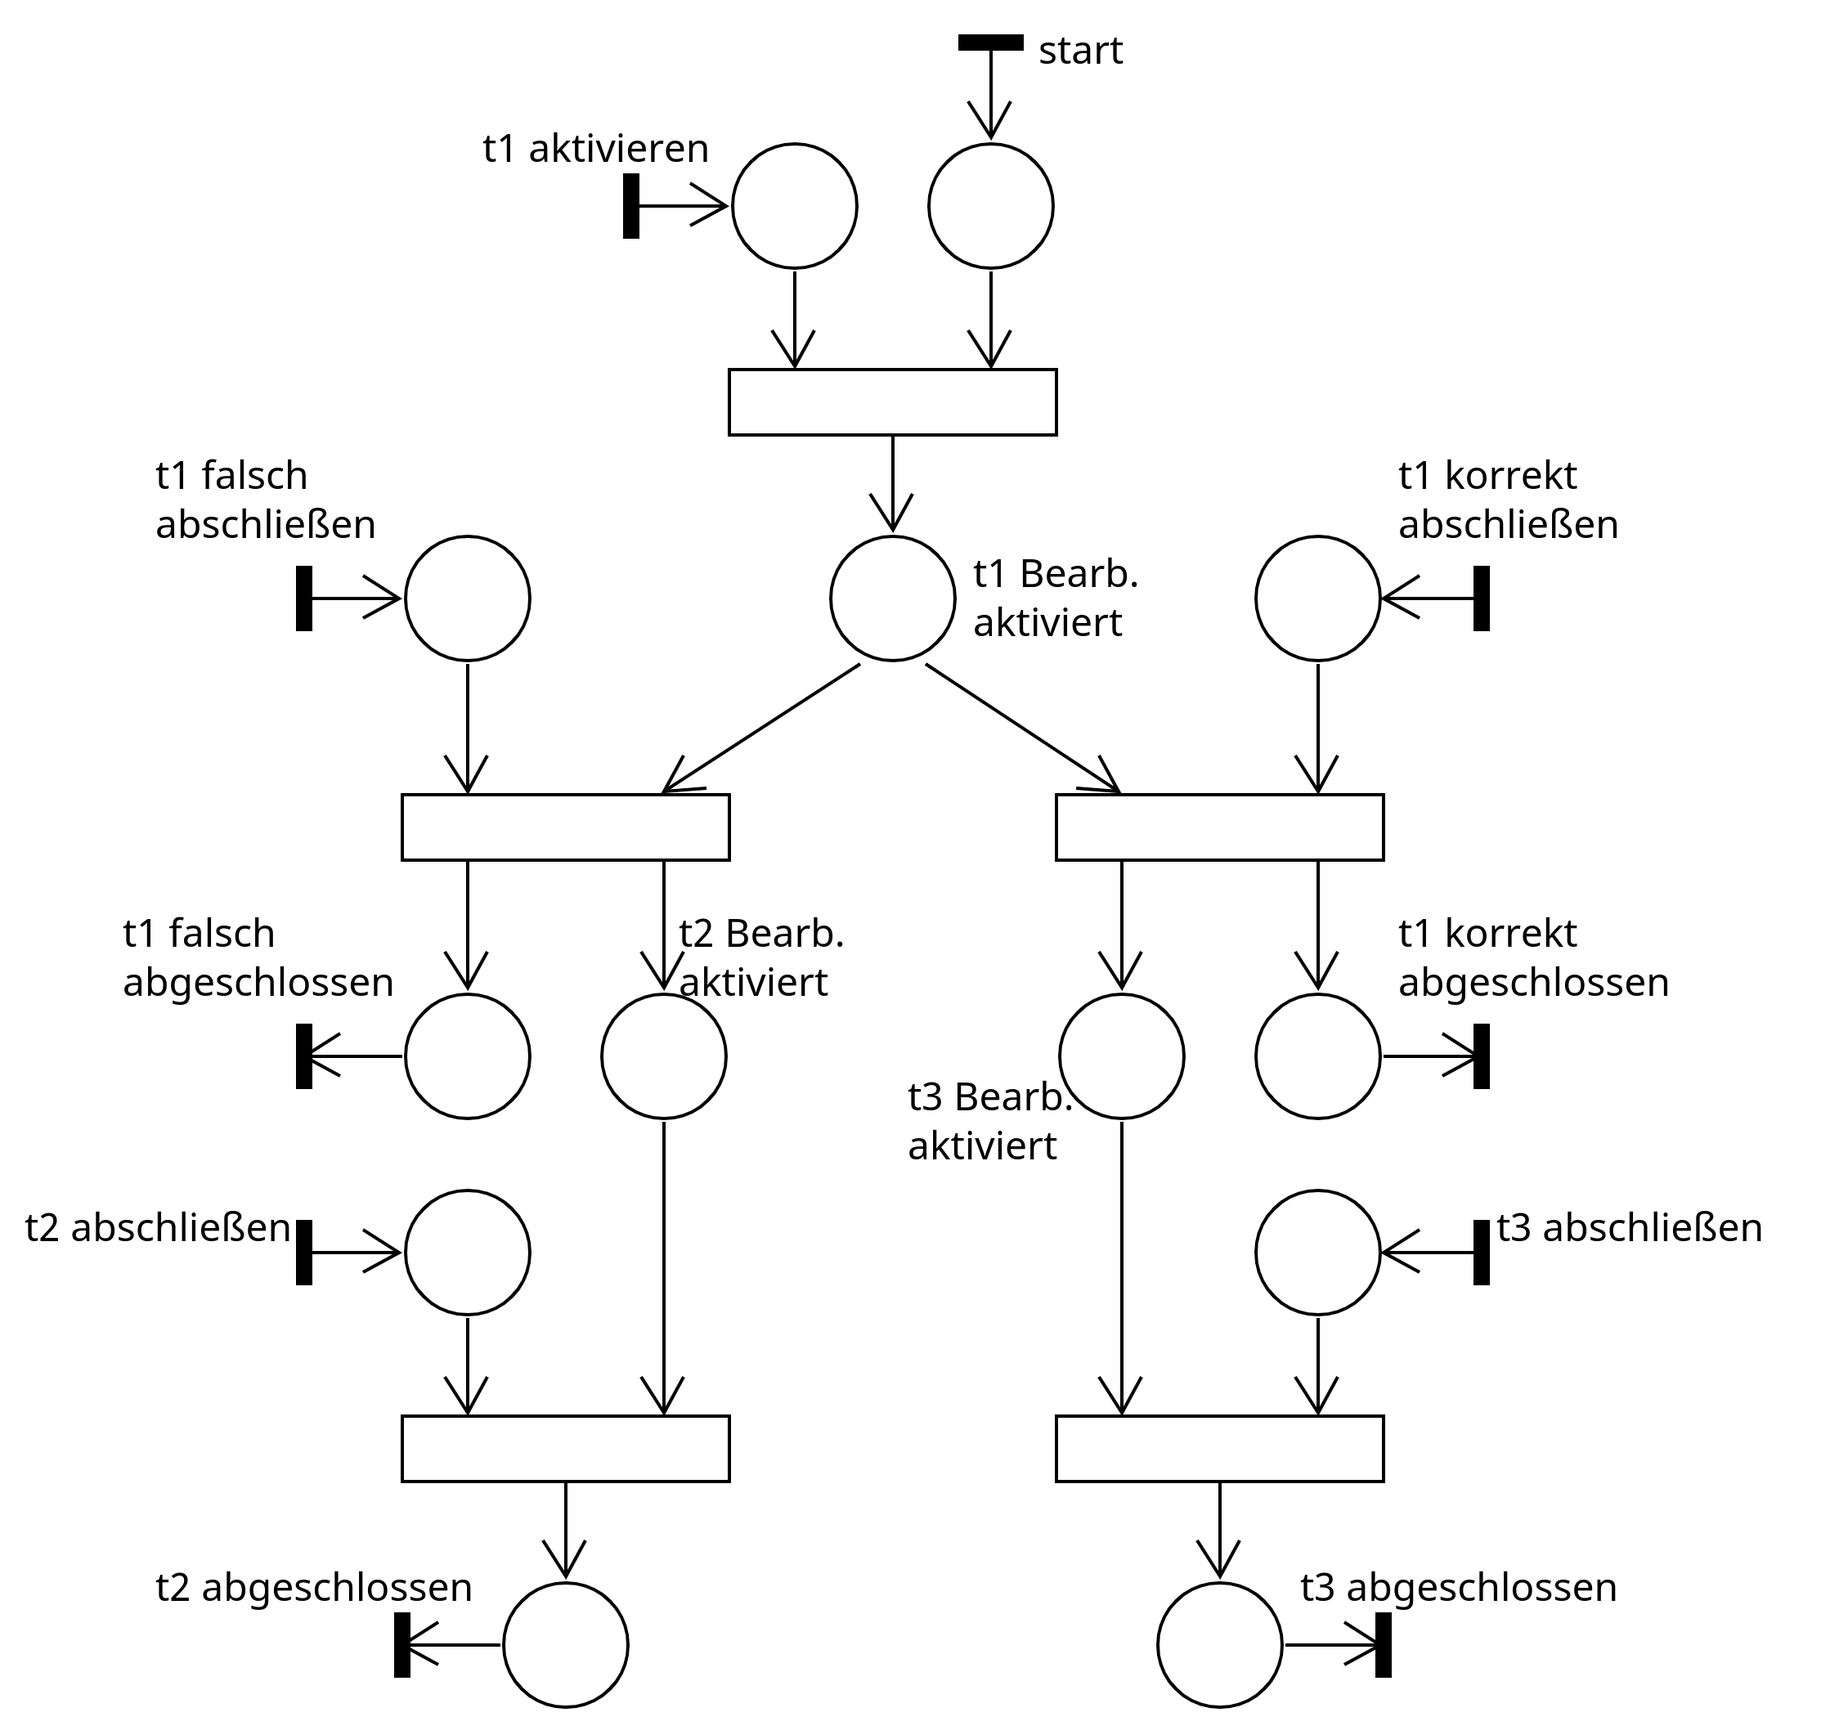
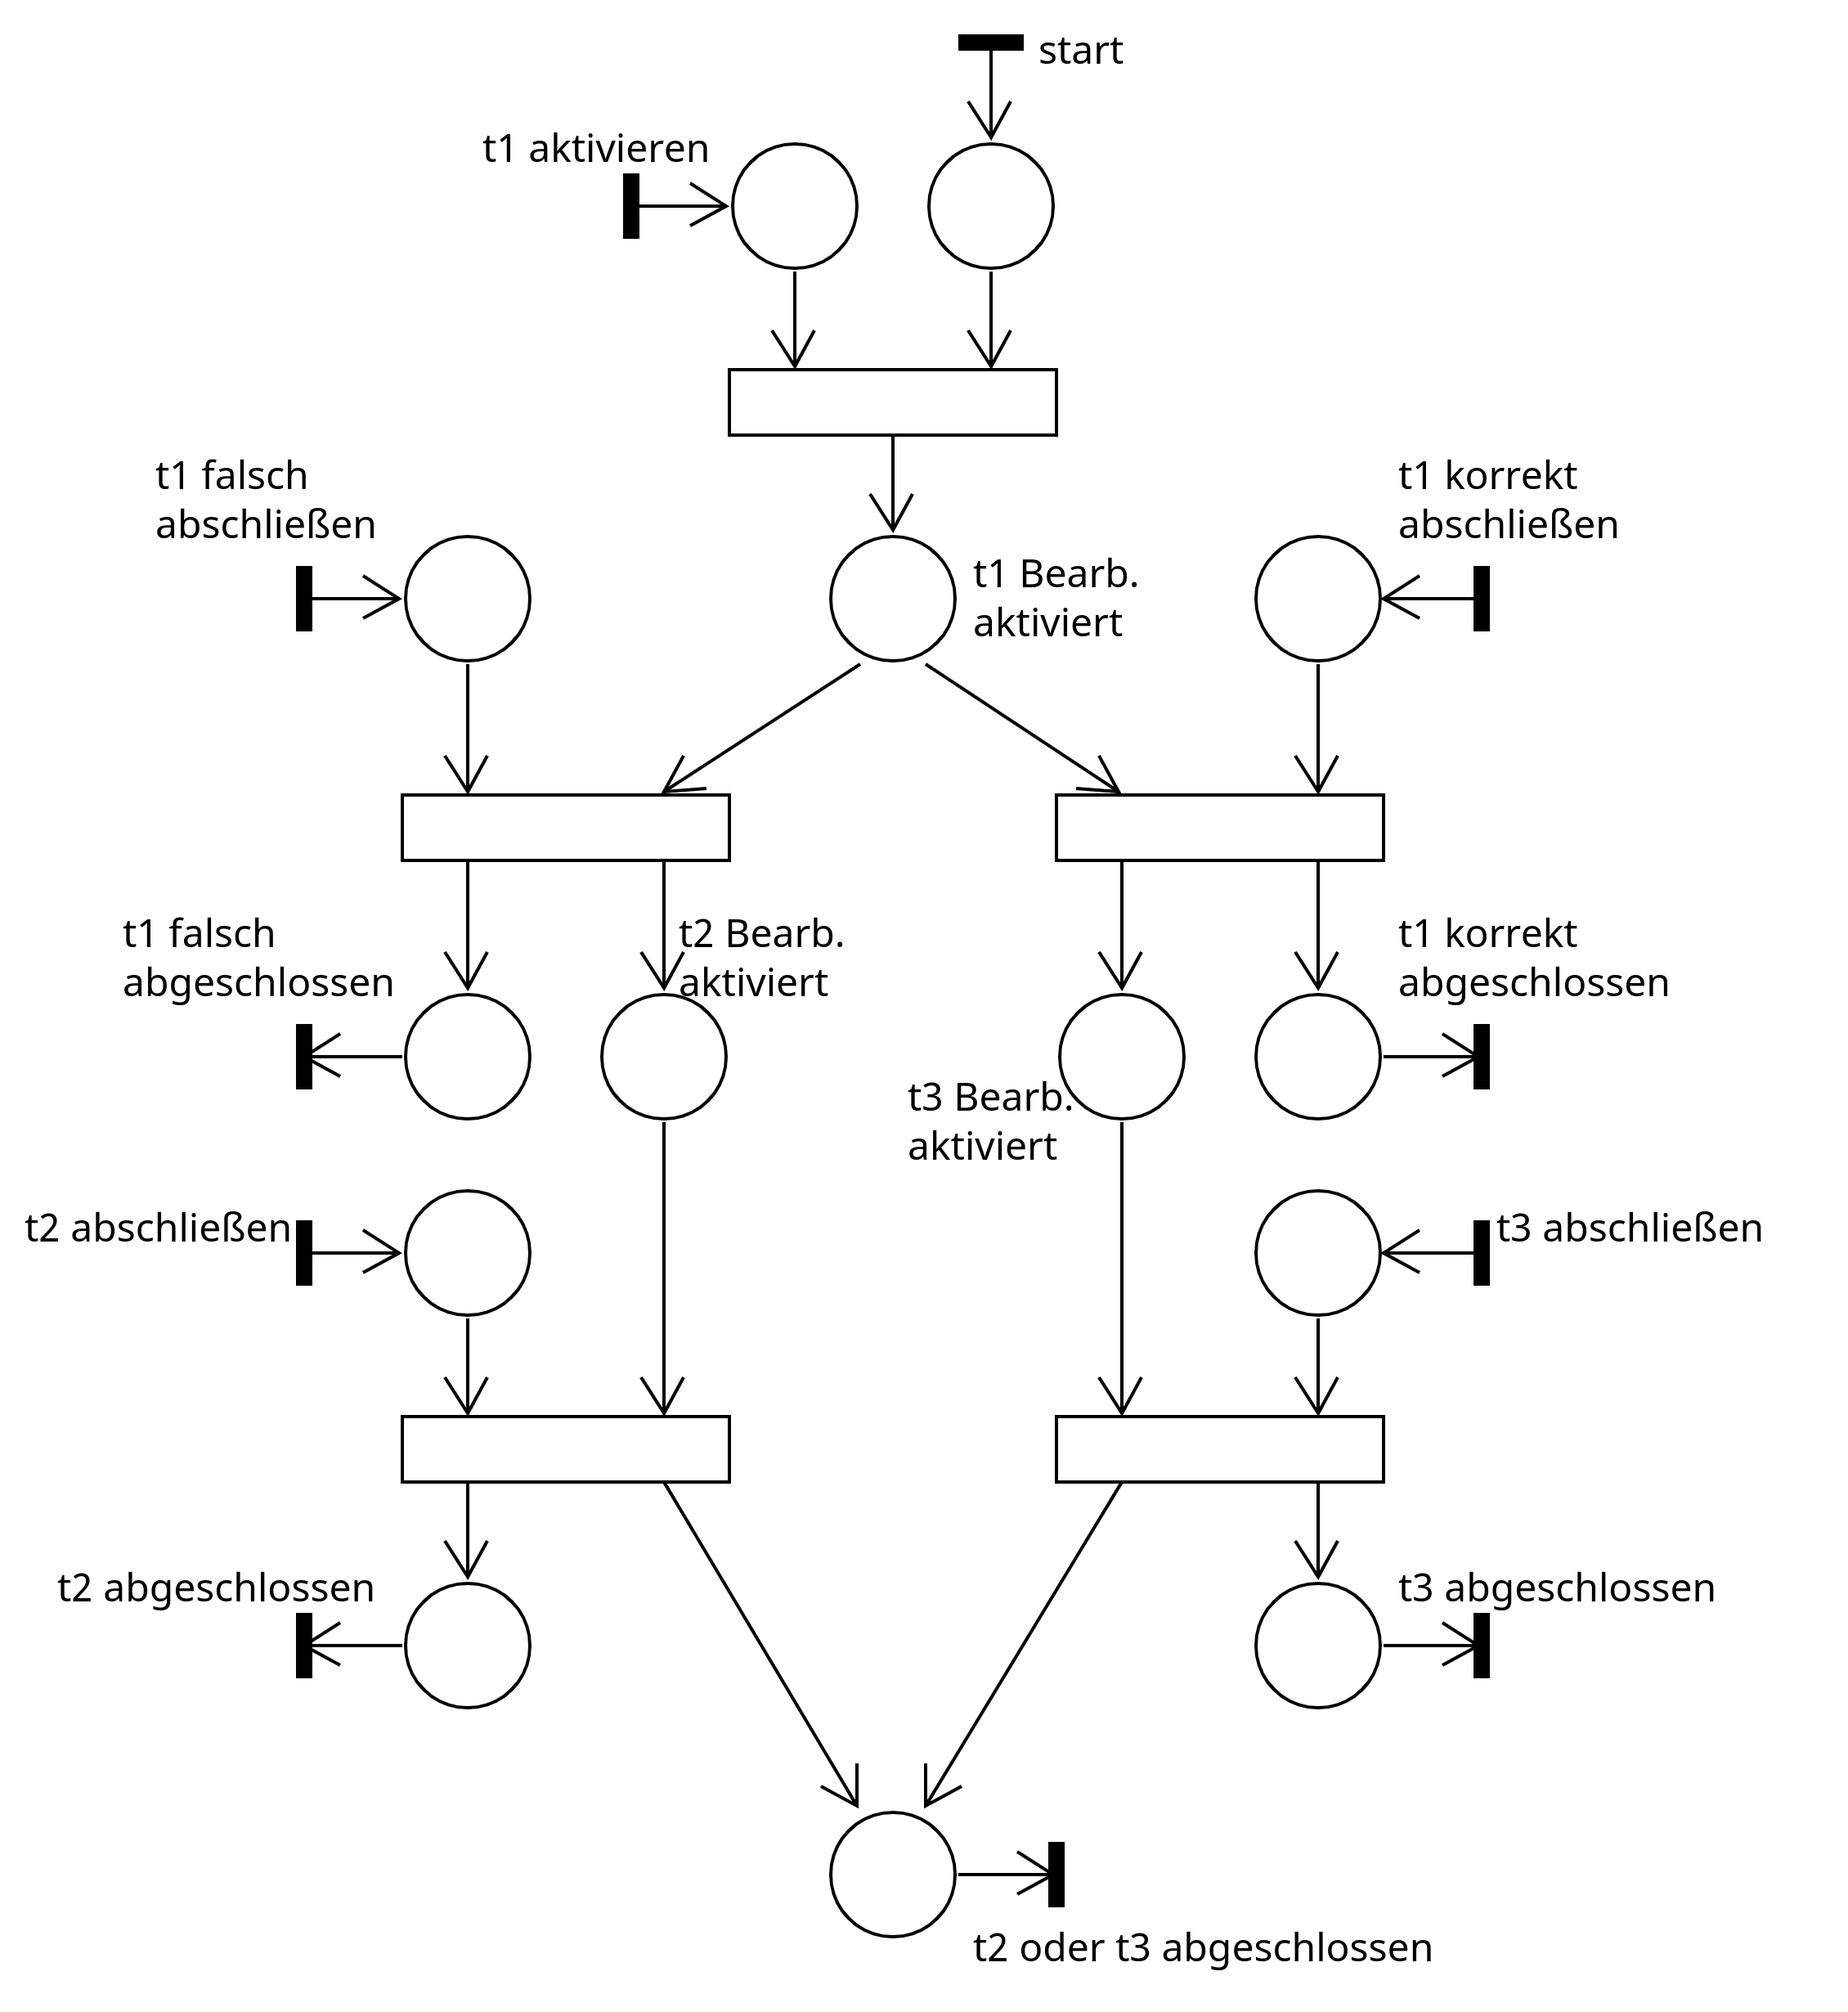
Update net for conditional subtask to include common outgoing transition

diff --git a/doc/control_mechanisms/petri_nets.md b/doc/control_mechanisms/petri_nets.md
@@ -193,6 +193,10 @@ task_dependency t {
 Das Petri-Netz für die oben beschriebene Abhängigkeit sieht wie folgt aus: ![Bedingte
 Folgeaufgabe: Petri-Netz](img/conditional_petri.png)
 
+Die Stelle mit der ausgehenden Transition “t2 oder t3 abgeschlossen” (am unteren Bildrand)
+dient dazu, die Information, dass **eine** der alternativen Folgeaufgaben bearbeitet wurde,
+in einer Stelle zu vereinigen.
+
 ### Kombination der Beziehungen
 
 Die vorgestellten Beziehungen können beliebig kombiniert werden, wie in folgender
